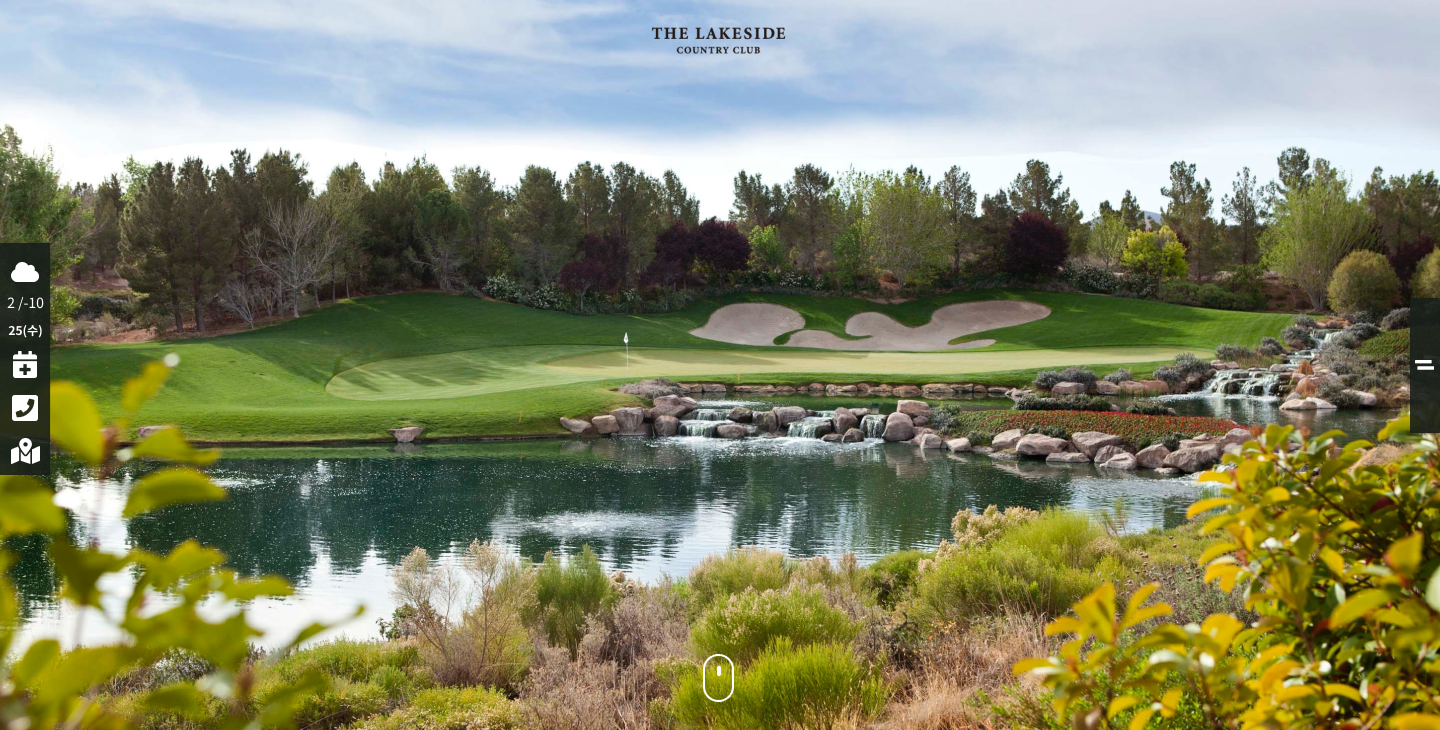
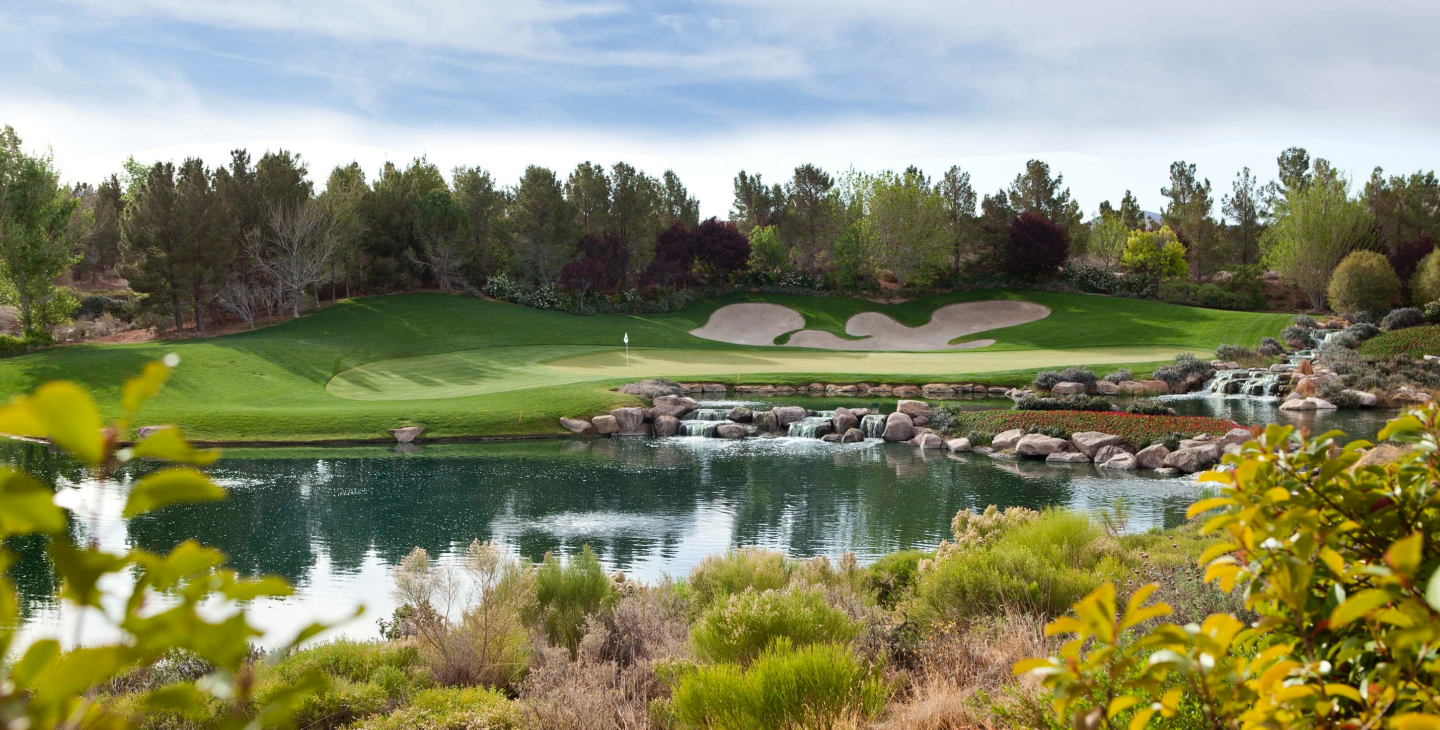
img교체

Changed region(s): [[0.0, 0.3315, 0.0625, 0.663], [0.9688, 0.3918, 1.0, 0.6027], [0.4375, 0.0301, 0.5625, 0.0904]]

diff --git a/notice.html b/notice.html
@@ -148,14 +148,14 @@
         <section id="history" class="history row">
           <div class="history-img-wrapper col-lg-5" data-aos="fade-right">
             <!-- <div class="img-container"> -->
-            <img src="./img/notice_history.png" alt="" />
+            <img src="./img/notice-img/notice_history.png" alt="" />
             <!-- </div> -->
             <!-- <span class="linebox"></span> -->
           </div>
           <div
             class="desc-history offset-lg-2 offset-md-1 col-lg-5 col-md-12"
             data-aos="fade-left"
-            data-aos-delay="400"
+            data-aos-delay="200"
           >
             <h3>the lake side</h3>
             <h2>history</h2>
@@ -206,12 +206,12 @@
             class="contest-img-wrapper col-lg-5 offset-lg-2 offset-md-1"
             data-aos="fade-left"
           >
-            <img src="./img/notice_contest.png" alt="" />
+            <img src="./img/notice-img/notice_contest.png" alt="" />
           </div>
           <div
             class="desc-contest col-lg-5 col-md-12 order-md-first d-flex flex-column align-items-end"
             data-aos="fade-right"
-            data-aos-delay="400"
+            data-aos-delay="200"
           >
             <h3>the lake side</h3>
             <h2>contest</h2>
@@ -272,12 +272,12 @@
             <div
               class="d-flex align-items-start rocess-guide-img-wrapper col-md-3"
             >
-              <img src="./img/notice_rocess.png" alt="" />
+              <img src="./img/notice-img/notice_rocess.png" alt="" />
             </div>
             <div
               class="desc-rocess-guide col-md-9 col-sm-12"
               data-aos="fade-left"
-              data-aos-delay="400"
+              data-aos-delay="200"
             >
               <ul>
                 <li class="">
@@ -341,12 +341,12 @@
         </div>
         <section class="cart-guide row">
           <div class="col-md-3 d-flex align-items-start cart-guide-img-wrapper">
-            <img src="./img/notice_cart.png" alt="" />
+            <img src="./img/notice-img/notice_cart.png" alt="" />
           </div>
           <div
             class="desc-cart-guide col-md-9 col-sm-12 order-md-first"
             data-aos="fade-right"
-            data-aos-delay="400"
+            data-aos-delay="200"
           >
             <ul>
               <li>
@@ -431,14 +431,20 @@
               </ul>
               <div class="fac-nav-img-wrapper">
                 <img
-                  src="./img/facility-club2.png"
+                  src="./img/notice-img/facility-club2.png"
                   class="active"
                   alt="클럽하우스"
                 />
-                <img src="./img/facility-restaurant2.png" alt="레스토랑" />
-                <img src="./img/facility-locker2.png" alt="락커룸" />
-                <img src="./img/facility-shadow2.png" alt="그늘집" />
-                <img src="./img/facility-proshop2.png" alt="프로샵" />
+                <img
+                  src="./img/notice-img/facility-restaurant2.png"
+                  alt="레스토랑"
+                />
+                <img src="./img/notice-img/facility-locker2.png" alt="락커룸" />
+                <img src="./img/notice-img/facility-shadow2.png" alt="그늘집" />
+                <img
+                  src="./img/notice-img/facility-proshop2.png"
+                  alt="프로샵"
+                />
               </div>
               <p class="fac-pager d-flex justify-content-end">
                 <a href="">클럽하우스</a>
@@ -457,7 +463,7 @@
             <div class="col-md-4 col-sm-12 facility-information">
               <ul>
                 <li class="facility-info-wrapper active">
-                  <img src="./img/facility-club.png" alt="" />
+                  <img src="./img/notice-img/facility-club.png" alt="" />
                   <h4>클럽하우스</h4>
                   <p>
                     레이크사이드는 자연 생태계적이고 친환경적인 골프장으로서
@@ -468,7 +474,7 @@
                 </li>
 
                 <li class="facility-info-wrapper">
-                  <img src="./img/facility-restaurant.png" alt="" />
+                  <img src="./img/notice-img/facility-restaurant.png" alt="" />
                   <h4>레스토랑</h4>
                   <p>
                     레이크사이드 클럽하우스 식당은 한식, 중식, 양식은 물론
@@ -480,7 +486,7 @@
                   </p>
                 </li>
                 <li class="facility-info-wrapper">
-                  <img src="./img/facility-locker.png" alt="" />
+                  <img src="./img/notice-img/facility-locker.png" alt="" />
                   <h4>락커룸</h4>
                   <p>
                     운동의 시작과 끝을 기분 좋게 풀어드립니다. 대자연과 함께
@@ -489,7 +495,7 @@
                   </p>
                 </li>
                 <li class="facility-info-wrapper">
-                  <img src="./img/facility-shadow.png" alt="" />
+                  <img src="./img/notice-img/facility-shadow.png" alt="" />
                   <h4>그늘집</h4>
                   <p>
                     천수호가 자리잡고 있는 홀로써 아름다운 자연이 펼쳐져 있는
@@ -500,7 +506,7 @@
                   </p>
                 </li>
                 <li class="facility-info-wrapper">
-                  <img src="./img/facility-proshop.png" alt="" />
+                  <img src="./img/notice-img/facility-proshop.png" alt="" />
                   <h4>프로샵</h4>
                   <p>
                     럭셔리한 품격과 탁월한 성능 및 최적의 기능 아늑하고 차별화된

diff --git a/index.html b/index.html
@@ -147,7 +147,11 @@
               class="img-wrapper d-flex flex-column justify-content-center col-md-6"
               data-aos="fade-right"
             >
-              <img src="./img/eastcourse.png" alt="" class="col-md-6" />
+              <img
+                src="./img/main-img/eastcourse.png"
+                alt=""
+                class="col-md-6"
+              />
             </div>
             <div
               class="course-desc offset-md-1 col-md-5 d-flex flex-column justify-content-center align-items-center"
@@ -179,7 +183,11 @@
                 data-aos="fade-left"
                 data-aos-offset="500"
               >
-                <img src="./img/westcourse.png" alt="" class="order-2" />
+                <img
+                  src="./img/main-img/westcourse.png"
+                  alt=""
+                  class="order-2"
+                />
               </div>
               <div
                 class="course-desc col-md-5 d-flex flex-column justify-content-center align-items-center"
@@ -211,7 +219,7 @@
               data-aos="fade-right"
               data-aos-offset="500"
             >
-              <img src="./img/southcourse.png" alt="" />
+              <img src="./img/main-img/southcourse.png" alt="" />
             </div>
             <div
               class="course-desc offset-md-1 col-md-5 d-flex flex-column justify-content-center align-items-center"
@@ -240,32 +248,32 @@
           <ul class="main-slide text-center">
             <li>
               <a href="">
-                <img src="./img/event-slide1.png" alt="" />
+                <img src="./img/main-img/event-slide1.png" alt="" />
               </a>
             </li>
             <li>
               <a href="">
-                <img src="./img/event-slide2.png" alt="" />
+                <img src="./img/main-img/event-slide2.png" alt="" />
               </a>
             </li>
             <li>
               <a href="">
-                <img src="./img/event-slide3.png" alt="" />
+                <img src="./img/main-img/event-slide3.png" alt="" />
               </a>
             </li>
             <li>
               <a href="">
-                <img src="./img/event-slide1.png" alt="" />
+                <img src="./img/main-img/event-slide1.png" alt="" />
               </a>
             </li>
             <li>
               <a href="">
-                <img src="./img/event-slide2.png" alt="" />
+                <img src="./img/main-img/event-slide2.png" alt="" />
               </a>
             </li>
             <li>
               <a href="">
-                <img src="./img/event-slide3.png" alt="" />
+                <img src="./img/main-img/event-slide3.png" alt="" />
               </a>
             </li>
           </ul>

diff --git a/css/main.css b/css/main.css
@@ -5,7 +5,7 @@ main {
 }
 
 header {
-  background-image: url(../img/Mask\ group.png);
+  background-image: url(../img/main-img/main_banner.png);
 }
 
 .main-course {

diff --git a/css/notice.css b/css/notice.css
@@ -33,7 +33,7 @@ img {
 }
 
 header {
-  background-image: url(../img/notice_banner.png);
+  background-image: url(../img/notice-img/notice_banner.png);
 }
 
 h3,
